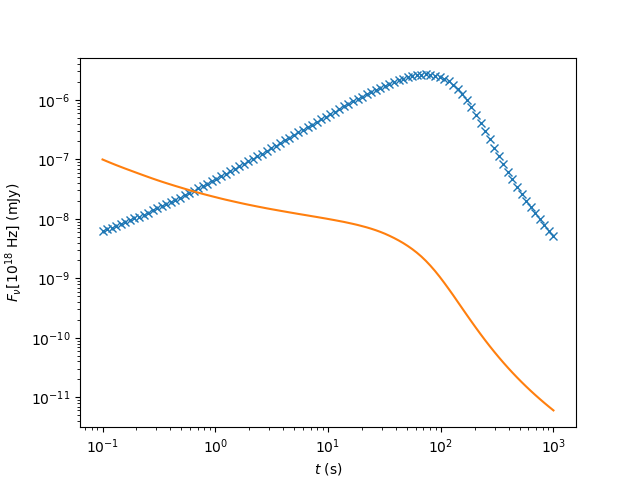
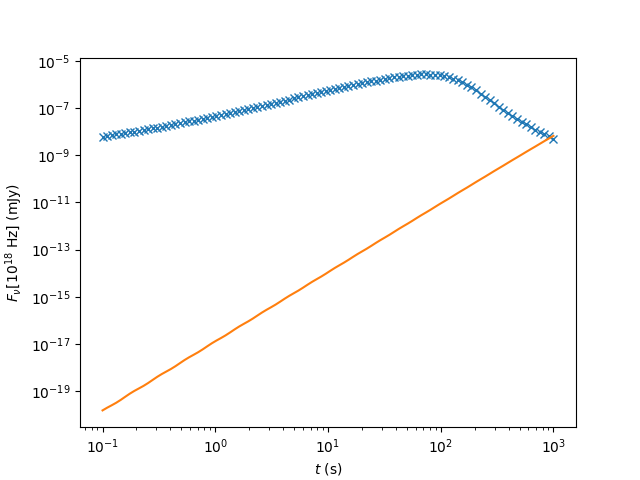
fitting function improvements

diff --git a/Flux_Fitting.py b/Flux_Fitting.py
@@ -2,13 +2,16 @@ import numpy as np
 import matplotlib.pyplot as plt
 import afterglowpy as grb
 from scipy.optimize import curve_fit
+from scipy.optimize import least_squares
+
+#imbed the flux calcuation within a function
 
 def ag_py(t,thetaObs,E0,thetaCore,thetaWing,n0,p,epsilon_e,epsilon_B,xi_N,d_L,z):
 	Z = {'jetType':     grb.jet.Gaussian,     # Gaussian jet your discrepancy
 		 'specType':    grb.jet.SimpleSpec,   # Basic Synchrotron Emission Spectrum 
 
 		 'thetaObs':    thetaObs,   # Viewing angle in radians -known
-		 'E0':          E0, # Isotropic-equivalent energy in erg
+		 'E0':          E0*1.0e53, # Isotropic-equivalent energy in erg
 		 'thetaCore':   thetaCore,    # Half-opening angle in radians
 		 'thetaWing':   thetaWing,    # Outer truncation angle
 		 'n0':          n0,    # circumburst density in cm^{-3}
@@ -16,7 +19,7 @@ def ag_py(t,thetaObs,E0,thetaCore,thetaWing,n0,p,epsilon_e,epsilon_B,xi_N,d_L,z)
 		 'epsilon_e':   epsilon_e,    # epsilon_e
 		 'epsilon_B':   epsilon_B,   # epsilon_B
 		 'xi_N':        xi_N,    # Fraction of electrons accelerated
-		 'd_L':         d_L, # Luminosity distance in cm -known
+		 'd_L':         d_L*1.36e26, # Luminosity distance in cm -known
 		 'z':           z}   # redshift -known
 
 	# Calculate flux in a single X-ray band (all times have same frequency)
@@ -29,6 +32,11 @@ def ag_py(t,thetaObs,E0,thetaCore,thetaWing,n0,p,epsilon_e,epsilon_B,xi_N,d_L,z)
 
 	return grb.fluxDensity(t, nu, **Z)
 
+#wrapper for scaling with priority values
+def fitwrapper(coeffs, *args):
+    xdata,ydata,prio = args
+    return prio*(ag_py(xdata, *coeffs)-ydata)
+
 # Space time points geometrically, from 10^3 s to 10^7 s
 # Time and Frequencies
 ta = 1.0e-1 * grb.day2sec
@@ -36,31 +44,47 @@ tb = 1.0e3 * grb.day2sec
 t = np.geomspace(ta, tb, num=100)
 
 #initial parameter guesses
-thetaObs = 0.2
-E0 = 1.0e53
-thetaCore = 0.05
-thetaWing = 0.4
-n0 = 1.0e-3
-p = 2.2
-epsilon_e = 0.1
-epsilon_B = 0.0001
-xi_N = 1.0
-d_L = 1.36e26
-z = 0.01
+thetaObs = 1.4
+E0 = 10
+thetaCore = 0.02
+thetaWing = 0.6
+n0 = 1.0e-5
+p = 2.1
+epsilon_e = 0.54
+epsilon_B = 0.0231
+xi_N = 0.8
+d_L = 0.1
+z = 0.3
 b_lim = np.zeros((4,2))
-
-bound = ([0,np.pi],[0,np.pi*0.5],[0,np.pi],[0,0.1],[1.8,2.4],[0,1],[0,1],[0,1],[0,1])
 
 guess = [thetaObs,E0,thetaCore,thetaWing,n0,p,epsilon_e,epsilon_B,xi_N,d_L,z]
 
+#set bounds for fitting parameters
+
+b = ((0,1e-2,0.0,0.0,0.0,1.8,0.0,0.0,0.0,1.0e-2,0),(np.pi*0.5,100.0,np.pi*0.25,np.pi*0.5,0.1,2.4,1.0,1.0,1.0,100.0,1.0))
+
+# import generated data
 xdata, ydata = np.genfromtxt('./data/test_curve.txt',delimiter=',',skip_header=11, unpack=True)
 
-p,covariance = curve_fit(ag_py, xdata, ydata, p0=guess,bounds=bound, maxfev=5000)
+#locate peak in data
+peak = np.array(ydata).argmax()
 
-#print(p[0],p[1],p[2],p[3],p[4],p[5],p[6],p[7],p[8],p[8],p[9],p[10])
+#allocate priority of fitting
+n = len(xdata)
+prio = np.ones(n)
+prio[0] = 1000
+prio[peak] = 1000
+prio[-1] = 1000
+
+#calculate least squares fit parameters
+out = least_squares(fitwrapper, x0=guess, bounds=b, args=(xdata,ydata,prio))
+p = out.x
+
+
+#calculated flux curve based off fitted parameters
 Fnu = ag_py(t,p[0],p[1],p[2],p[3],p[4],p[5],p[6],p[7],p[8],p[9],p[10])
 
-print(f'thetaObs: {p[0]}\n E0: {p[1]}\n thetaCore: {p[2]}\n thetaWing: {p[3]}\n n0: {p[4]}\n p: {p[5]}\n epsilon_e: {p[6]}\n epsilon_B: {p[7]}\n xi_N: {p[8]}\n d_L: {p[9]}\n z: {p[10]}')
+print(f'thetaObs: {p[0]}\n E0: {p[1]*1.0e53}\n thetaCore: {p[2]}\n thetaWing: {p[3]}\n n0: {p[4]}\n p: {p[5]}\n epsilon_e: {p[6]}\n epsilon_B: {p[7]}\n xi_N: {p[8]}\n d_L: {p[9]*1.36e26}\n z: {p[10]}')
 
 tday = t * grb.sec2day
 

diff --git a/test_curves.py b/test_curves.py
@@ -6,7 +6,6 @@ import tempfile
 # For convenience, place arguments into a dict.
 Z = {'jetType':     grb.jet.Gaussian,     # Gaussian jet your discrepancy
      'specType':    grb.jet.SimpleSpec,   # Basic Synchrotron Emission Spectrum your discrepancy
-     'counterjet': True,
 
      'thetaObs':    0.3,   # Viewing angle in radians -known
      'E0':          1.0e53, # Isotropic-equivalent energy in erg
